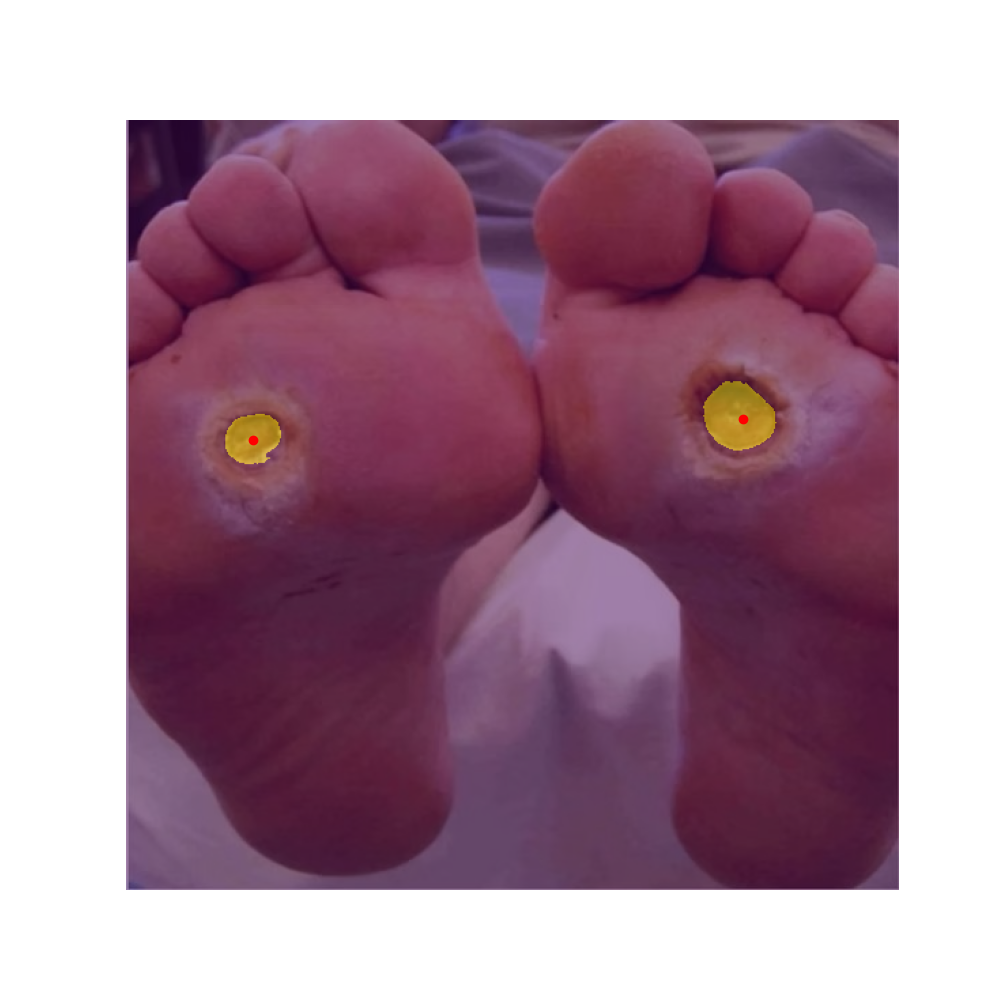
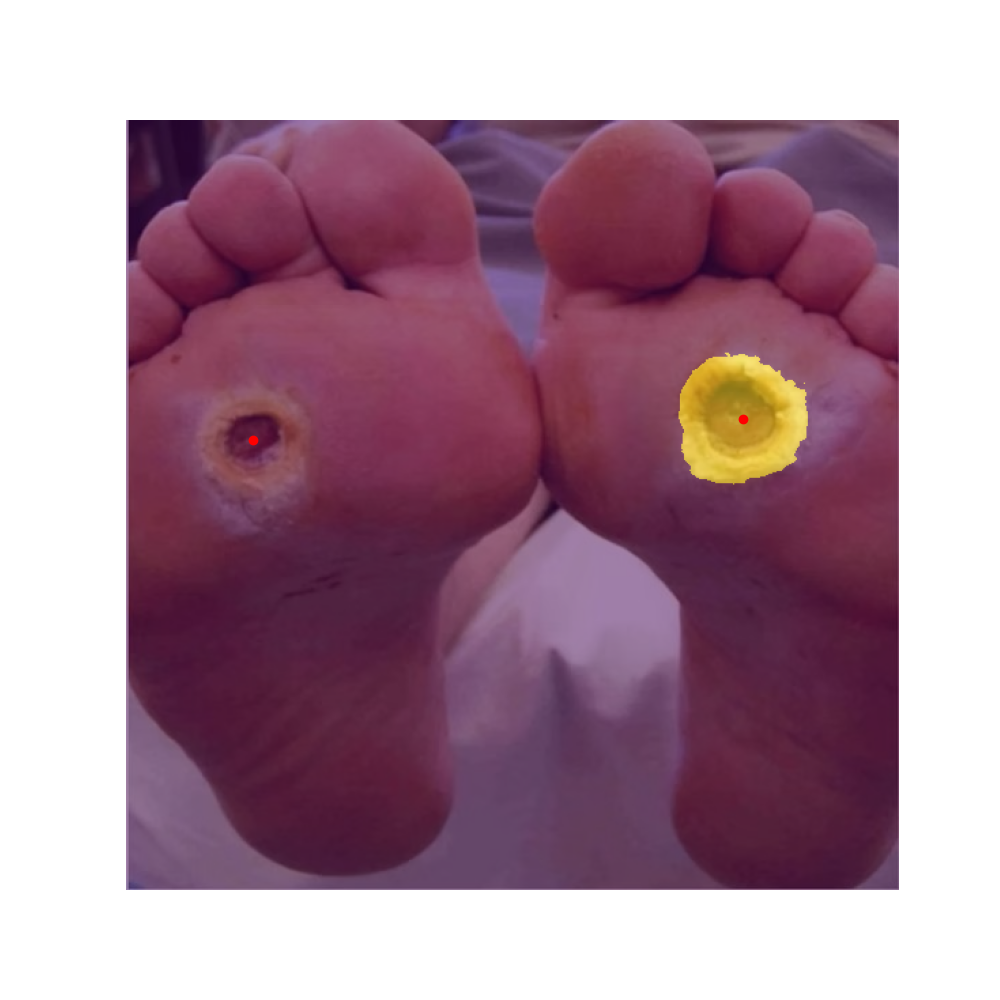
prompt without boundary

Changed region(s): [[0.682, 0.341, 0.806, 0.496], [0.217, 0.403, 0.279, 0.465]]

diff --git a/main.py b/main.py
@@ -4,87 +4,107 @@ import numpy as np
 import cv2
 import matplotlib.pyplot as plt
 import torch
-from hydra import initialize_config_module, compose, initialize_config_dir
+from hydra import initialize_config_dir
 
-sys.path.append(os.path.join(os.path.dirname(__file__), "sam_hq", "sam_hq2",))
+# Add the SAM-HQ2 directory to system path
+sys.path.append(os.path.join(os.path.dirname(__file__), "sam_hq", "sam_hq2"))
 
+# Initialize Hydra config
 config_dir = os.path.join(
     os.path.dirname(__file__), 
     "sam_hq", "sam_hq2", "sam2", "configs"
 )
 initialize_config_dir(config_dir=config_dir, version_base="1.3")
 
-# 1⃣ Import SAM-HQ model and predictor from official repo
+# Import SAM-HQ2
 from sam2.build_sam import build_sam2
 from sam2.sam2_image_predictor import SAM2ImagePredictor
 
-
-# 🔁 Import YOLOv8
+# Import YOLOv8
 from ultralytics import YOLO
 
-# 2⃣ Load test image
+# -------------------------- Load Image --------------------------
 image_path = "inputs/test1.jpg"
 image_bgr = cv2.imread(image_path)
+if image_bgr is None:
+    raise FileNotFoundError(f"❌ Image not found at: {image_path}")
 image_rgb = cv2.cvtColor(image_bgr, cv2.COLOR_BGR2RGB)
 
-# Ours SAM-HQ2
-checkpoint = "sam_hq/sam_hq2/checkpoints/sam2.1_hiera_base_plus.pt"
-model_cfg = "sam2.1/sam2.1_hiera_b+.yaml"
-
-
-# 🟡 Load YOLOv8 model
+# -------------------------- Run YOLOv8 --------------------------
 yolo_model = YOLO("runs/detect/train4/weights/best.pt")
-results = yolo_model(image_path)[0]  # first result
+results = yolo_model(image_path)[0]  # Get first result
 
-# 🔁 Convert YOLO bounding boxes to prompt points (center of bbox)
+# Extract original and expanded boxes
+original_boxes = []
+# expanded_boxes = []
 prompt_points = []
+
 for box in results.boxes.xyxy.cpu().numpy():
     x1, y1, x2, y2 = box
-    
+    original_boxes.append([x1, y1, x2, y2])
+
+    # # Expand the box slightly
+    # x1_new = x1 - 0 * (x2 - x1)
+    # x2_new = x2 + 0 * (x2 - x1)
+    # y1_new = y1 - 0 * (y2 - y1)
+    # y2_new = y2 + 0 * (y2 - y1)
+    # expanded_boxes.append([x1, y1 , x2 , y2 ])
+
+    # Get center point
     center_x = int((x1 + x2) / 2)
     center_y = int((y1 + y2) / 2)
     prompt_points.append([center_x, center_y])
 
-if not prompt_points:
+if not original_boxes:
     print("⚠ No objects detected by YOLO. Exiting.")
     exit()
 
-input_points = np.array(prompt_points)
-input_labels = np.ones(len(input_points))  # foreground
-
-# 4⃣ Load the SAM-HQ model
+# -------------------------- Load SAM-HQ2 --------------------------
 checkpoint_path = "sam_hq/sam_hq2/checkpoints/sam2.1_hiera_base_plus.pt"
-model_type = "vit_h"  # SAM-HQ supports vit_h, vit_l, vit_b
-
+model_cfg = "sam2.1/sam2.1_hiera_b+.yaml"
 device = "cuda" if torch.cuda.is_available() else "cpu"
 
-# Build SAM-HQ model using the helper
-sam = build_sam2(model_cfg, checkpoint)
-sam.to(device)
+sam_model = build_sam2(model_cfg, checkpoint_path)
+sam_model.to(device)
 
-# 5⃣ Create predictor and set image
-predictor = SAM2ImagePredictor(sam)
+predictor = SAM2ImagePredictor(sam_model)
 predictor.set_image(image_rgb)
 
-# 6⃣ Predict masks using the prompt points
-masks, scores, logits = predictor.predict(
-    point_coords=input_points,
-    point_labels=input_labels,
-    multimask_output=False
-)
-
-# 7⃣ Plot results
+# -------------------------- Predict Masks --------------------------
 plt.figure(figsize=(10, 10))
 plt.imshow(image_rgb)
 
-for mask in masks:
-    plt.imshow(mask, alpha=0.5)  # overlay mask
+for i in range(len(original_boxes)):
+    input_box = np.array([original_boxes[i]])         # shape (1, 4)
+    input_point = np.array([[prompt_points[i]]])      # shape (1, 1, 2)
+    input_label = np.array([[1]])                     # shape (1, 1)
 
-for pt in prompt_points:
-    plt.plot(pt[0], pt[1], 'ro')  # red prompt point
+    masks, scores, logits = predictor.predict(
+        point_coords=input_point,
+        point_labels=input_label,
+        # box=input_box,
+        multimask_output=False
+    )
 
+    # Plot mask
+    for mask in masks:
+        plt.imshow(mask, alpha=0.5)
+
+    # Plot original YOLO box
+    x1, y1, x2, y2 = original_boxes[i]
+    plt.gca().add_patch(plt.Rectangle(
+        (x1, y1),
+        x2 - x1,
+        y2 - y1,
+        edgecolor='lime',
+        facecolor='none',
+        linewidth=2
+    ))
+
+# -------------------------- Save & Show --------------------------
 plt.axis('off')
-output_path = "outputs_SAM_HQ2/segmented_result1.png"
-plt.savefig(output_path)
-print(f"✅ Segmentation saved to: {output_path}")
+os.makedirs("outputs_SAM_HQ2_NO", exist_ok=True)
+output_path = "outputs_SAM_HQ2_NO/segmented2_with_boxes.png"
+plt.savefig(output_path, bbox_inches='tight', pad_inches=0)
+print(f"✅ Segmented result saved to: {output_path}")
 plt.show()
